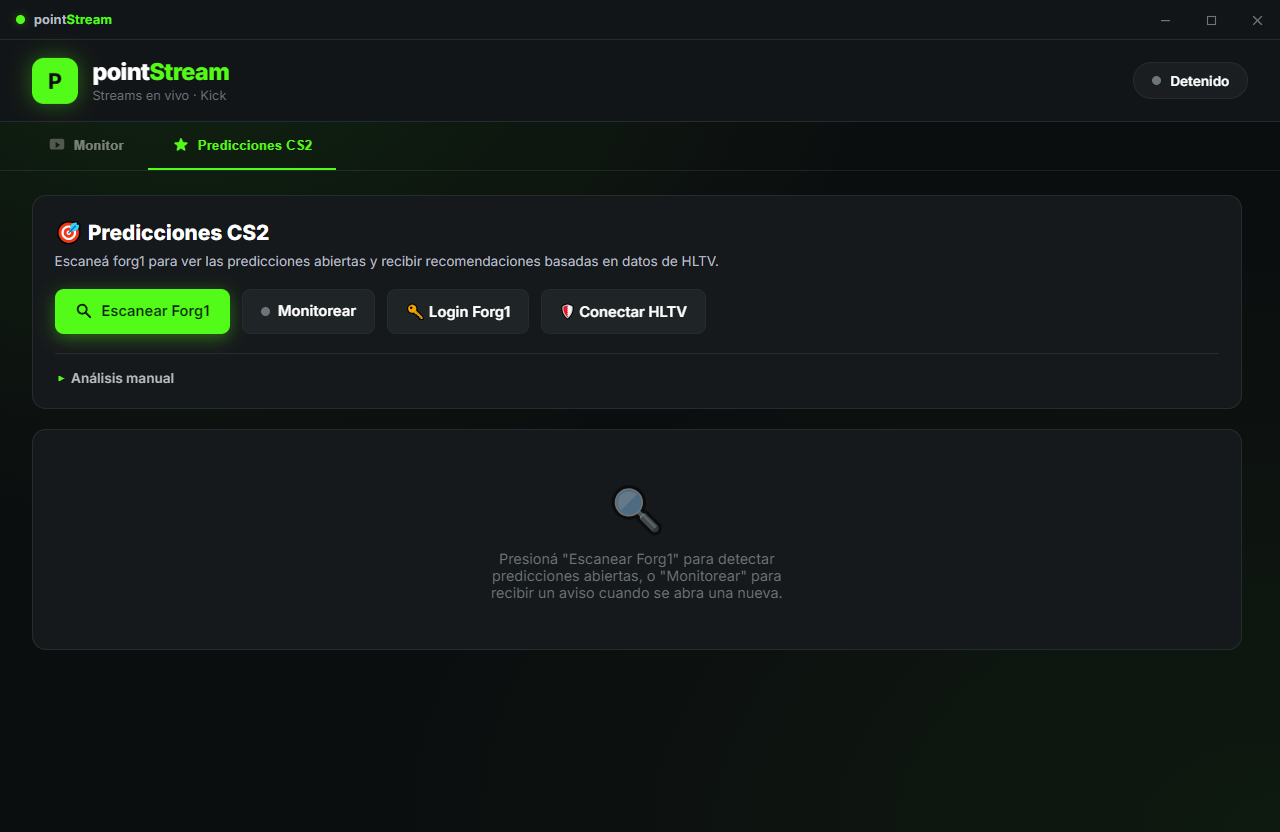
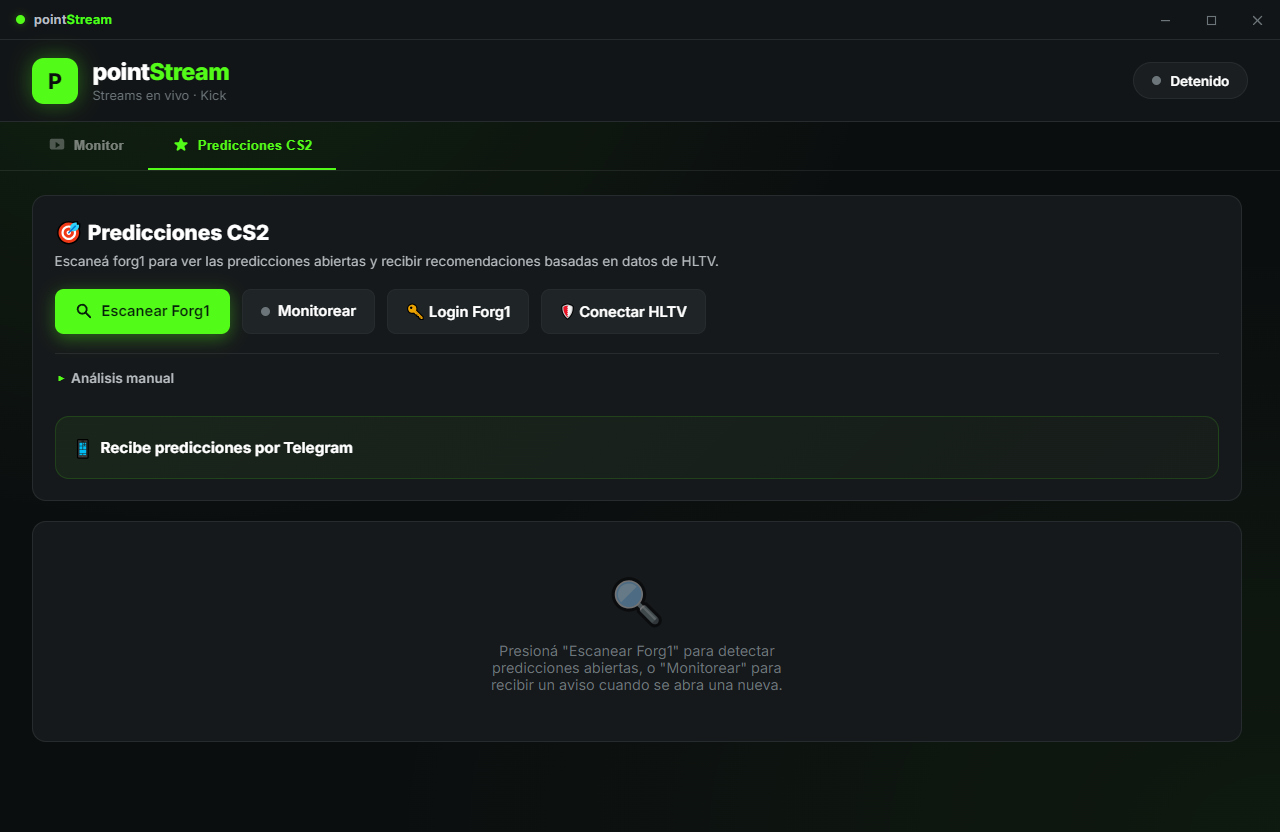
refactor: mejorar README con links destacados y screenshots actualizados
Cambios visuales:
- Badges rediseñados (flat-square, colores vibrantes)
- Links como botones destacados con shields.io
- CTA principal más prominente (Descargar Ahora)
- Footer limpio y profesional
- Links directo a releases en GitHub
- Mejor separación visual de secciones

Screenshots:
- Actualizadas todas las capturas (monitor-kick, monitor-twitch, predicciones)
- Reflejan la versión actual con UI mejorada

Resultado: README que se ve como una landing page SaaS premium

diff --git a/README.md b/README.md
@@ -4,18 +4,20 @@
 
 # 🎮 pointStream
 
-### Monitor inteligente de streams + Predicciones de CS2 en tiempo real
+**Monitor inteligente de streams + Predicciones de CS2 en tiempo real**
 
 *Nunca pierdas un stream en vivo. Siempre ten datos para tus predicciones.*
 
-[![License](https://img.shields.io/badge/License-MIT-53FC18?style=for-the-badge&logoColor=white)](LICENSE)
-[![Version](https://img.shields.io/badge/Version-1.1.0-blue?style=for-the-badge)](https://github.com/elkisser/pointStream/releases)
-[![Windows](https://img.shields.io/badge/Platform-Windows%2010%20%7C%2011-0078D6?style=for-the-badge&logo=windows&logoColor=white)](https://github.com/elkisser/pointStream/releases)
-[![Status](https://img.shields.io/badge/Status-Production%20Ready-green?style=for-the-badge)](https://github.com/elkisser/pointStream)
+<br/>
+
+[![License](https://img.shields.io/badge/LICENSE-MIT-53FC18?style=flat-square)](LICENSE)
+[![Version](https://img.shields.io/badge/VERSION-1.1.0-blue?style=flat-square)](https://github.com/elkisser/pointStream/releases)
+[![Platform](https://img.shields.io/badge/PLATFORM-WINDOWS%2010%20%7C%2011-0078D6?style=flat-square)](https://github.com/elkisser/pointStream/releases)
+[![Status](https://img.shields.io/badge/STATUS-PRODUCTION%20READY-green?style=flat-square)](https://github.com/elkisser/pointStream)
 
 <br/>
 
-**[⬇ DESCARGAR AHORA](#-descarga)** • [Ver Cambios](#-novedades-v110) • [Screenshots](#-galería-visual)
+### [⬇ DESCARGAR AHORA](https://github.com/elkisser/pointStream/releases/download/v1.1.0/pointStream-Setup-1.0.0.exe) • [Ver Cambios](https://github.com/elkisser/pointStream/releases) • [GitHub](https://github.com/elkisser/pointStream)
 
 </div>
 
@@ -205,33 +207,22 @@ Agrega tus streamers favoritos y disfruta
 
 ### 🎁 Última Versión: v1.1.0
 
-[![Download pointStream](https://img.shields.io/badge/⬇%20Descargar%20Instalador-Windows-0078D6?style=for-the-badge&logoColor=white)](https://github.com/elkisser/pointStream/releases/download/v1.1.0/pointStream-Setup-1.0.0.exe)
+[![Download pointStream](https://img.shields.io/badge/⬇%20DESCARGAR%20AHORA-53FC18?style=flat-square&logoColor=white&labelColor=000)](https://github.com/elkisser/pointStream/releases/download/v1.1.0/pointStream-Setup-1.0.0.exe)
 
-**Tamaño:** ~80 MB • **Windows 10+** • **Instalación en 30 segundos**
+**Tamaño:** ~80 MB • **Windows 10+** • **Sin instalación complicada**
 
-> ✅ **Totalmente gratis.** ✅ **Sin anuncios.** ✅ **Sin cuenta requerida.**
+✅ Totalmente gratis • ✅ Sin anuncios • ✅ Sin cuenta requerida
 
 </div>
-
-### ¿Problemas con SmartScreen?
-
-Si Windows muestra *"Windows protegió tu PC"*:
-1. Haz clic en **Más información**
-2. Haz clic en **Ejecutar de todas formas**
-
-Es seguro. El código está disponible en GitHub para que verifiques.
 
 ---
 
 ## 🎁 Novedades v1.1.0
 
-✨ **Fixes y mejoras recientes:**
-
-- ✅ Telegram integration fixed — conecta tu bot sin códigos
-- ✅ UI redesigned — estilos modernos con gradients y transiciones
-- ✅ Status messages improved — información clara y visual
-- ✅ Robustness — detección más confiable de predicciones
-- ✅ Performance — caché mejorada de estadísticas
+- ✅ **Telegram integration fixed** — conecta tu bot sin códigos
+- ✅ **UI redesigned** — estilos modernos con gradients y transiciones  
+- ✅ **Robustness** — detección más confiable de predicciones
+- ✅ **Performance** — caché mejorada de estadísticas
 
 ---
 
@@ -329,14 +320,10 @@ Distribuido bajo la licencia **MIT**. Libre de usar, modificar y distribuir.
 
 <div align="center">
 
-### 💚 Hecho para la comunidad de Kick, Twitch y CS2
+💚 **Hecho para la comunidad de Kick, Twitch y CS2**
 
-**[⬇ DESCARGA AHORA](#-descarga)** • [GitHub](https://github.com/elkisser/pointStream) • [Releases](https://github.com/elkisser/pointStream/releases)
+### [⬇ DESCARGA AHORA](https://github.com/elkisser/pointStream/releases/download/v1.1.0/pointStream-Setup-1.0.0.exe) • [GitHub](https://github.com/elkisser/pointStream) • [Releases](https://github.com/elkisser/pointStream/releases)
 
-*Versión 1.1.0 • 100% Libre • Sin publicidad • Windows 10+*
-
----
-
-**Creado con ❤ para streamers, apostadores y analistas de CS2**
+**Versión 1.1.0 • 100% Libre • Sin publicidad • Windows 10+**
 
 </div>
